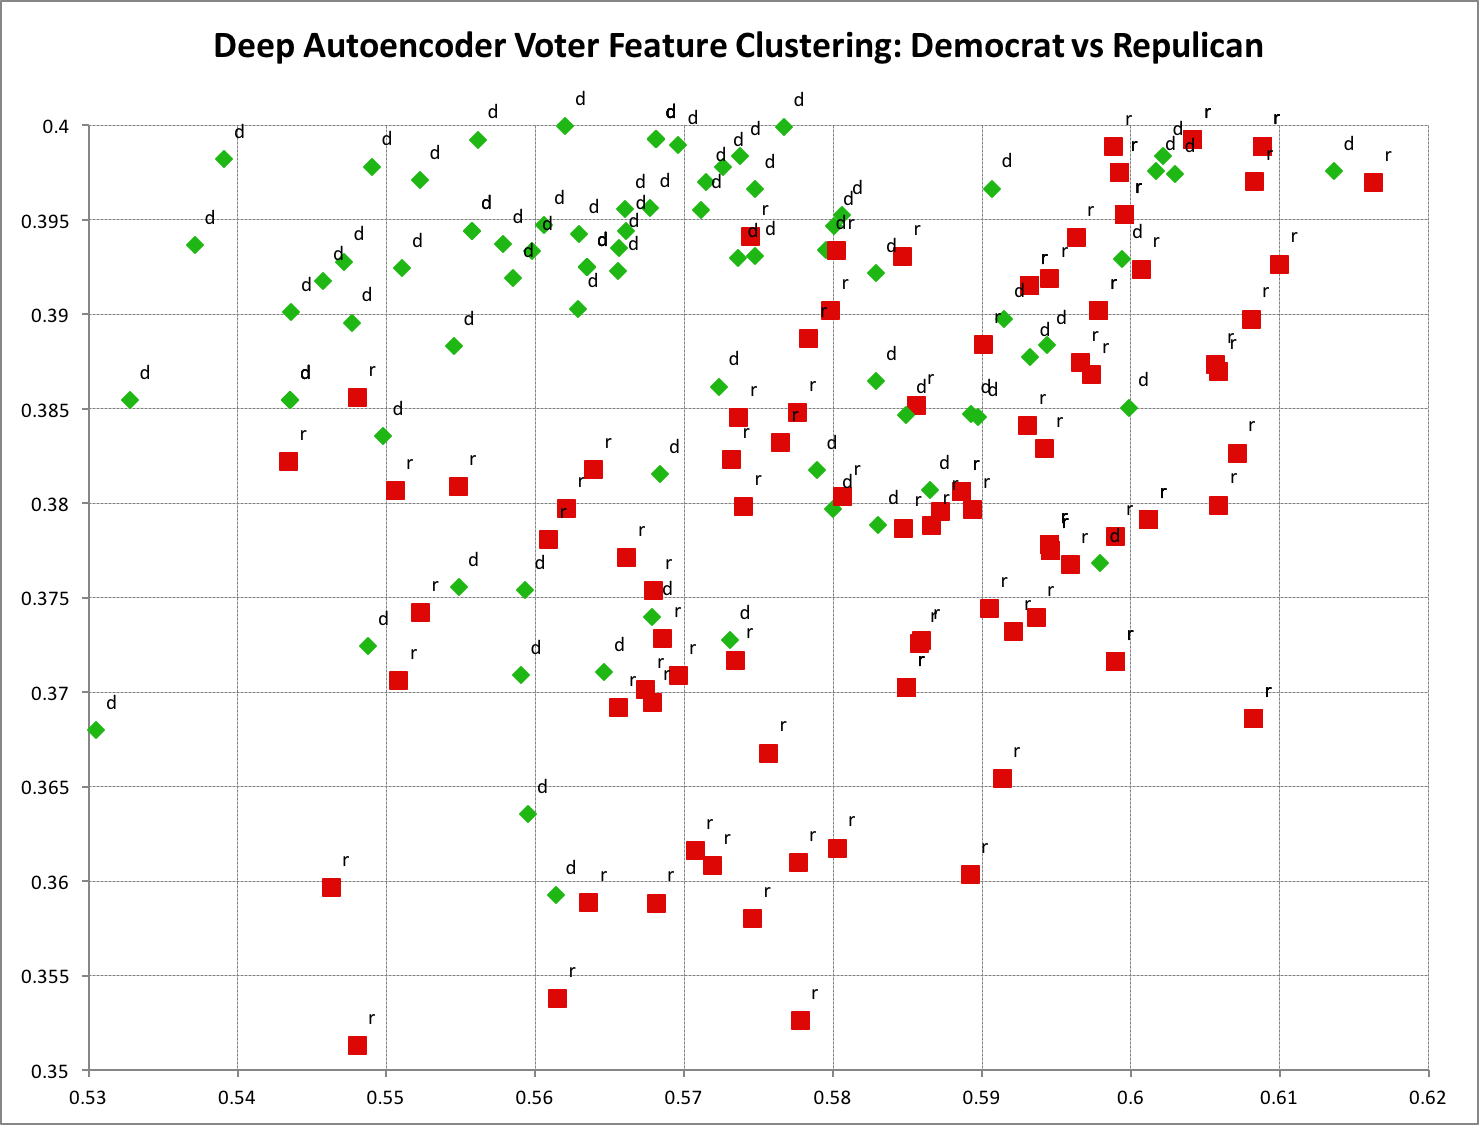
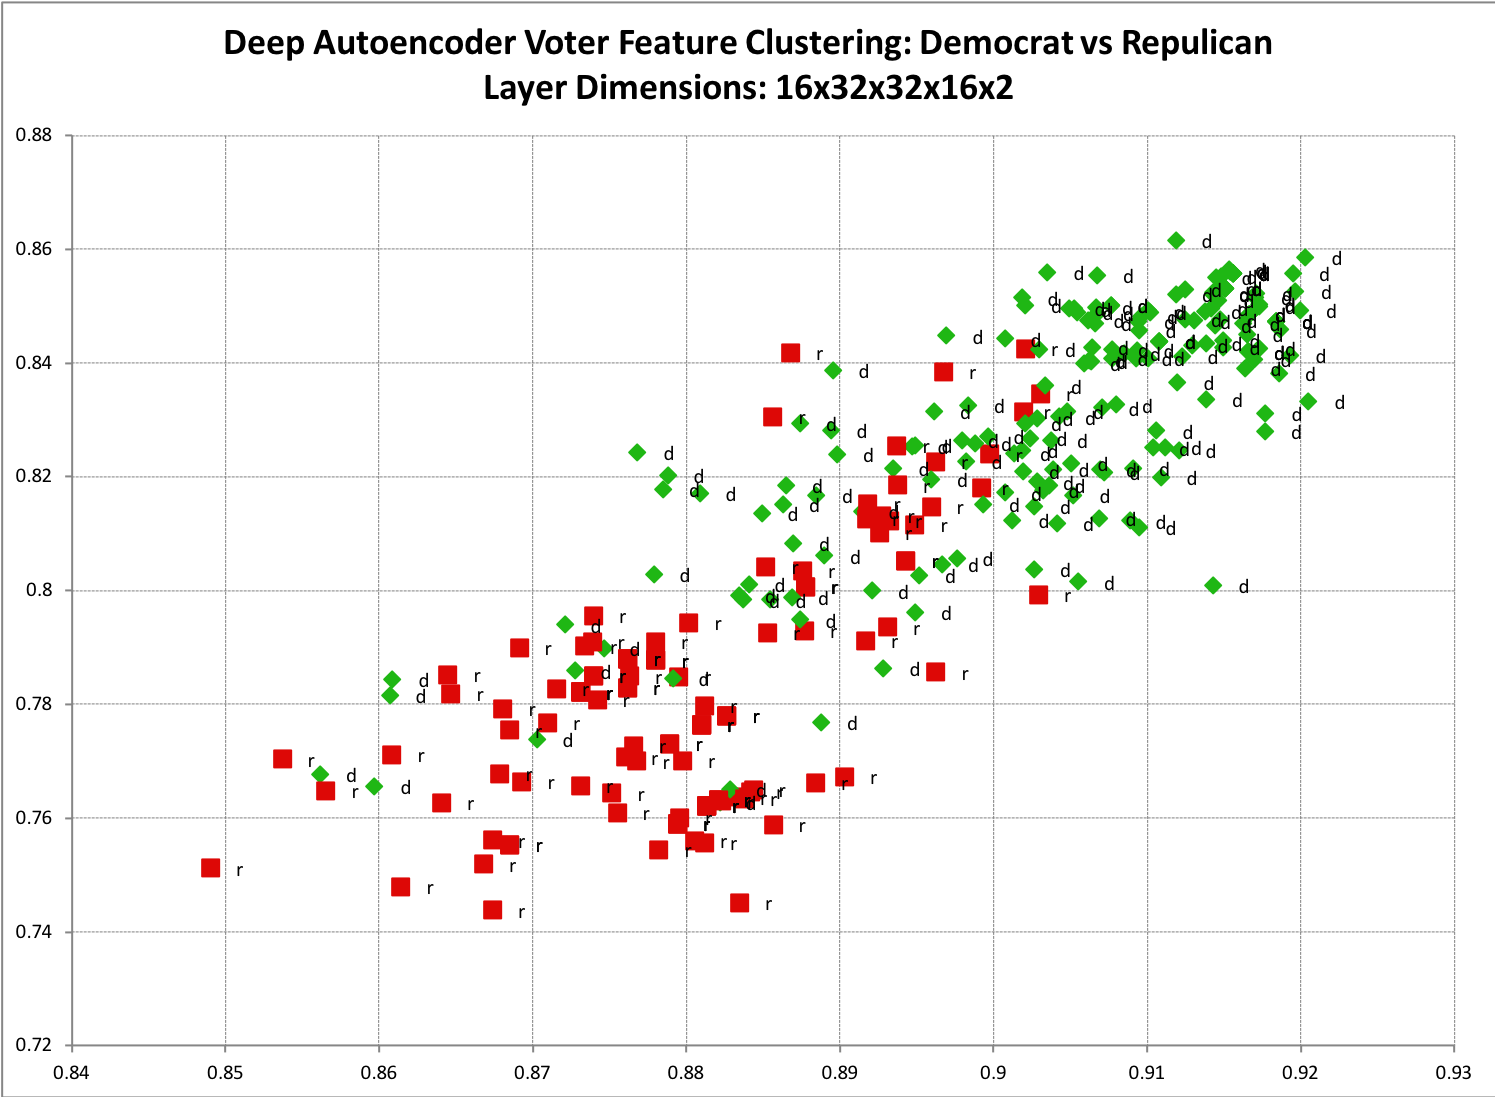
update feature clustering example + readme

diff --git a/src/test/kotlin/com/kennycason/nn/ClusteringAutoEncoderTest.kt b/src/test/kotlin/com/kennycason/nn/ClusteringAutoEncoderTest.kt
@@ -1,0 +1,74 @@
+package com.kennycason.nn
+
+import com.kennycason.nn.data.*
+import com.kennycason.nn.math.Errors
+import org.jblas.FloatMatrix
+import org.junit.Test
+
+class ClusteringAutoEncoderTest {
+
+    @Test
+    fun voterClustering() {
+        val labeledData = VoterDataLoader.load()
+        val xs = labeledData.xs
+        val ys = labeledData.ys
+
+        val layer = DeepAutoEncoder(
+                learningRate = 0.05f,
+                layerDimensions = arrayOf(
+                        arrayOf(16, 32),
+                        arrayOf(32, 32),
+                        arrayOf(32, 16),
+                        arrayOf(16, 2)
+                ),
+                log = true)
+
+        layer.learn(xs.rowsAsList(), 1_000_000)
+
+//        (0 until xs.rows).forEach { i ->
+//            println("i: ${xs.getRow(i)}\no: ${layer.feedForward(xs.getRow(i))}")
+//        }
+
+        (0 until xs.rows).forEach { i ->
+            val encoded = layer.encode(xs.getRow(i))
+            println("${encoded[0]}, ${encoded[1]}, ${ys[i].substring(0, 1)}")
+        }
+    }
+
+
+    // detect non-coding rna genes
+    @Test
+    fun codRnaShortClustering() {
+        val labeledData = BinaryClassDataLoader.load("/data/cod_rna_short.svm")
+        val xs = labeledData.xs.applyi { x -> // scale input
+            if (Math.abs(x) > 100) {
+                x / 1000f
+            } else if (Math.abs(x) > 1) {
+                x / 100f
+            } else {
+                x
+            }
+        }
+        val ys = labeledData.ys
+
+        val layer = DeepAutoEncoder(
+                learningRate = 0.05f,
+                layerDimensions = arrayOf(
+                        arrayOf(8, 16),
+//                        arrayOf(16, 8),
+                        arrayOf(16, 2)
+                ),
+                log = true)
+
+        layer.learn(xs.rowsAsList(), 1_000_000)
+
+//        (0 until xs.rows).forEach { i ->
+//            println("i: ${xs.getRow(i)}\no: ${layer.feedForward(xs.getRow(i))}")
+//        }
+
+        (0 until xs.rows).forEach { i ->
+            val encoded = layer.encode(xs.getRow(i))
+            println("${encoded[0]}, ${encoded[1]}, ${ys[i]}")
+        }
+    }
+}

diff --git a/src/main/kotlin/com/kennycason/nn/data/BinaryClassDataLoader.kt b/src/main/kotlin/com/kennycason/nn/data/BinaryClassDataLoader.kt
@@ -16,11 +16,11 @@ object BinaryClassDataLoader {
         lines.forEachIndexed { i, row ->
             val columns = row.split(" ")
             val x = FloatMatrix(1, featureDimensions)
-            (0 until featureDimensions).forEach { j ->
-                x.put(j, columns[j].toFloat())
+            (0 until  featureDimensions).forEach { j ->
+                x.put(j, columns[j + 1].toFloat())
             }
             xs.putRow(i, x)
-            ys.set(i, columns[featureDimensions])
+            ys.set(i, columns[0])
         }
         return LabeledData(xs, ys)
     }

diff --git a/README.md b/README.md
@@ -62,9 +62,22 @@ Below are a few error graphs of a single layer autoencoder learing random vector
 
 # Feature Clustering
 
-A byproduct of an autoencoder learning to encode features, is that through the encoding/compression process, feature clustering also occurs. Below is a sample of a deep autoencoder learning to encode feature vectors representing republican and democrats voting history. The deepest most layer maps to a small 2-dimensional feature vector so that we can easily visualize the encoding on a x-y plot. There is a clear trend showing democratic votes clustered to the top, and republican to the bottom. Unsurprisingly, there is also some overlap demonstrating cases where democrats and republicans share overlapping votes.
+A byproduct of an autoencoder learning to encode features, is that through the encoding/compression process, feature clustering also occurs.
+
+Below are examples of a deep autoencoder learning to encode input vectors.
+The deepest most layer maps to a small 2-dimensional feature vector so that we can easily visualize the encoding on a x-y plot.
+
+#### Republican and Democrat Voting History Clustering
+
+The deepest most layer maps to a small 2-dimensional feature vector so that we can easily visualize the encoding on a x-y plot.
+There is a clear trend showing democratic votes clustered to the top right, and republican to the bottom left.
+Unsurprisingly, there is also some overlap demonstrating cases where democrats and republicans share overlapping votes.
 
 <img src="https://raw.githubusercontent.com/kennycason/neural_network_kotlin/master/results/data/deep_auto_encoder_voter_feature_clustering.png" width="450px"/>
+
+#### Non-Coding RNA Gene Clustering
+
+<img src="https://raw.githubusercontent.com/kennycason/neural_network_kotlin/master/results/data/cod_rna_feature_clustering.png" width="450px"/>
 
 # Notes
 
